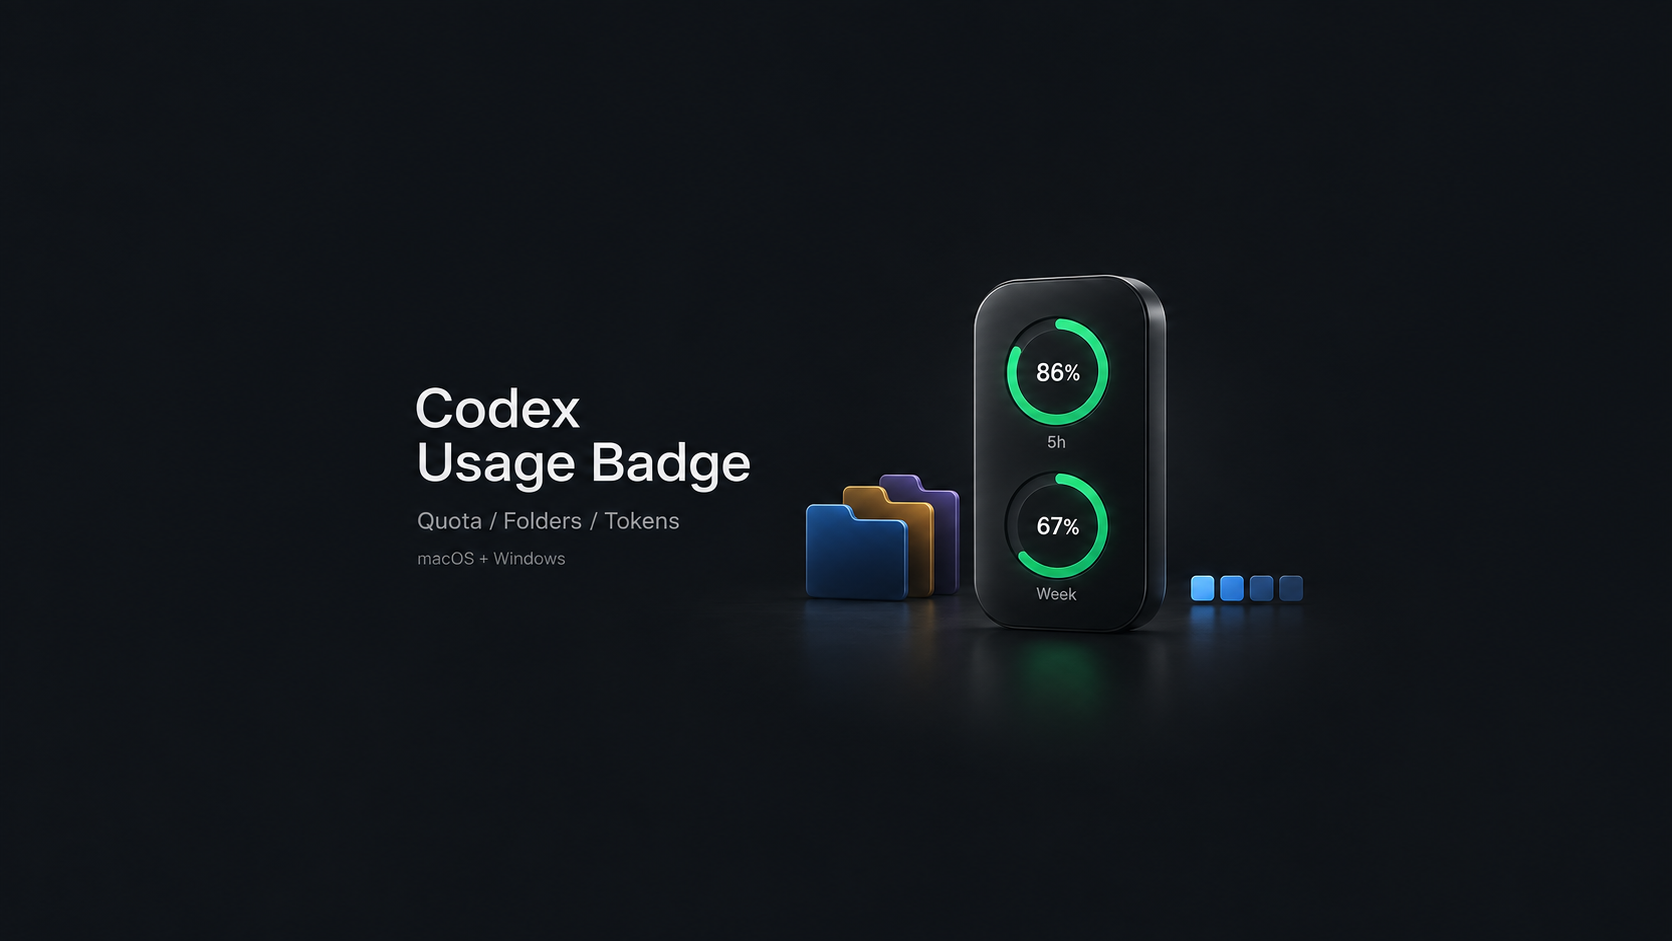
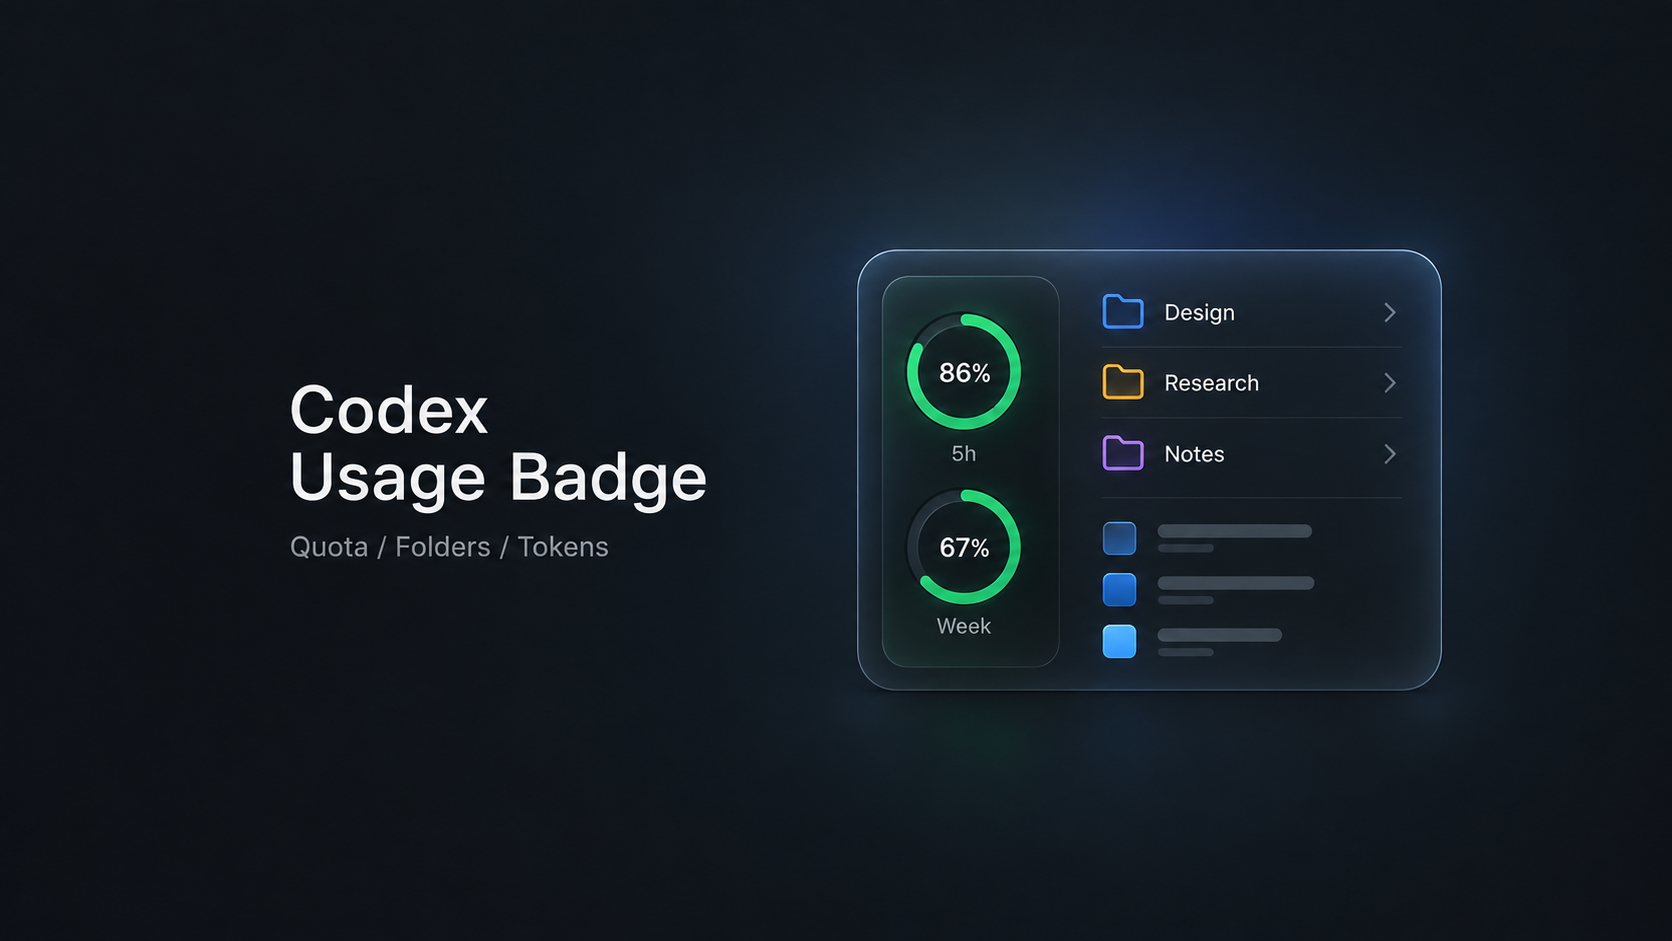
Refine README cover with native glass UI

Changed region(s): [[0.4665, 0.1233, 0.9019, 0.7396], [0.1555, 0.4006, 0.4665, 0.6164]]

diff --git a/scripts/audit_release.py b/scripts/audit_release.py
@@ -19,13 +19,13 @@ patterns = [
 forbidden_parts = {'node_modules','vendor','backups','.devtools','__MACOSX'}
 forbidden_suffixes = {'.png','.jpg','.jpeg','.webp','.sqlite','.db','.log'}
 forbidden_names = {'auth.json','config.json','worker.json','.DS_Store','stop.request'}
-# Only this visually reviewed, generated cover is allowed; screenshots stay blocked.
[1 lines of base64/hex data omitted]
+# Pin reviewed generated covers; retain the previous cover for immutable release archives. Screenshots stay blocked.
[1 lines of base64/hex data omitted]
 
 def inspect(name, data):
     p = Path(name)
     approved = approved_media.get(p.as_posix())
-    if approved and hashlib.sha256(data).hexdigest() != approved:
+    if approved and hashlib.sha256(data).hexdigest() not in approved:
         raise SystemExit('Media changed; visual/privacy review required: '+name)
     if forbidden_parts.intersection(p.parts) or (p.suffix.lower() in forbidden_suffixes and not approved) or p.name in forbidden_names or p.name.startswith('.env'):
         raise SystemExit('Forbidden artifact: '+name)

diff --git a/docs/cover-design.md b/docs/cover-design.md
@@ -1,9 +1,21 @@
 # README cover
 
-Generated with the built-in imagegen tool. This is a conceptual product illustration using synthetic sample values, not a screenshot of an account or a desktop session. The original generated image and its provenance metadata are preserved. It is used as a spacious 16:9-format README cover.
+Created with the built-in imagegen tool and reviewed before publication. A conceptual native desktop UI using synthetic values and project names; no real account or desktop content. The reference moodboard was used only for visual direction and is not distributed.
 
-Native output: 1672 × 941 pixels (16:9 with raster rounding), PNG. The generator returned this resolution rather than the resolution requested in the prompt.
+The cover uses shallow graphite glass, thin highlights and compact native controls. Quota rings, colored folder outlines and Token indicators share one sidebar surface. The original generated PNG and provenance metadata are preserved without post-processing.
 
-## Final generation prompt
+Output: 1672 × 941 pixels, approximately 16:9 with raster rounding. The tool returned this size rather than the requested 2048 × 1152.
 
-Use case: ads-marketing. Create one finished premium GitHub README cover for the open-source project Codex Usage Badge. Output a landscape image at exactly 2048 x 1152 pixels, strict 16:9 aspect ratio. Art direction: restrained industrial product design meets Swiss editorial typography, refined dark software aesthetic. This is a complete designed cover, not a screenshot or a webpage mockup. Background: nearly uniform deep graphite black #101419, barely perceptible soft illumination behind the object, very clean, no noisy texture. At least 65 percent of the canvas must be calm empty negative space; wide safe margins, especially the top and bottom. Main layout is a compact horizontal composition in the middle third of the canvas. On the left, precise small-to-medium off-white sans-serif typography with generous spacing: exact main title on two lines 'Codex' and 'Usage Badge'. Directly beneath it a quiet small gray line exactly 'Quota / Folders / Tokens'. A further very small gray line 'macOS + Windows'. Do not make type oversized. On the right of center, a compact premium three-dimensional dark graphite UI sculpture, occupying only about 23 percent of canvas width and 40 percent of canvas height: a slender upright rounded capsule with two finely rendered emerald green progress rings arranged vertically; tiny accurate white numerical readouts 86% and 67%, with subdued labels '5h' and 'Week'. Geometry immaculate, rings perfectly centered, consistent inset from capsule edges, dark anodized finish, delicate bevels, soft believable studio light and restrained green reflections. Two tiny secondary objects sit near the capsule as a harmonious unified group: a few subtly layered simple folder shapes with blue, soft amber and muted violet accents; a miniature row of four small rounded blue squares of graduated brightness suggesting Token usage. These two secondary elements are understated, significantly smaller than the rings, with no extra text. Keep all elements comfortably within the central region, no edge cropping. Sophisticated, quiet, polished, spacious, balanced; no decorative gradients across the entire background, no neon halo, no cyberpunk, no ribbons, no busy dashboard, no multiple large panels, no giant 3D text, no laptops, no literal app screenshot. No OpenAI logo or other logo, no watermark, no personal information. The title and three exact support lines specified above are the only marketing text.
+## Final prompt
+
+Use case: ui-mockup / premium GitHub README cover.
+Primary request: Redesign the existing Codex Usage Badge cover to feel like beautifully crafted native desktop UI, guided by the reference moodboard's translucent controls, soft glass, thin highlights, and disciplined iconography. Deliver ONE complete landscape cover, exactly 2048 x 1152 pixels, 16:9.
+Input image 1 is the OLD cover: preserve the product name and the three product ideas, but replace its physical hardware sculpture, thick metallic bevels and freestanding 3D folders with a convincing native software interface.
+Input image 2 is a STYLE MOODBOARD only. Borrow restrained material and UI craft, never copy the collage, its text, logos, brands, watermarks, browser or Pinterest controls.
+
+Composition: generous quiet negative space, about 60% of the canvas, wide outer margins. A compact, optically balanced horizontal composition centered vertically. On the left, restrained off-white SF-style sans-serif typography: the exact title on two lines "Codex" and "Usage Badge"; underneath, much smaller cool gray text "Quota / Folders / Tokens". Clean editorial spacing. No other marketing copy.
+On the right, one coherent front-facing dark translucent native sidebar component, about 30% of the canvas width and 34% of canvas height. This is a SOFTWARE surface viewed straight on, extremely shallow depth, rounded continuous corners, thin high-quality edge highlights, subtle backdrop blur, soft shadow; no perspective distortion or physical slab. Integrate a narrow vertical quota capsule at its left, with two beautifully centered small green progress rings stacked vertically, showing synthetic values "86%" and "67%" with tiny labels "5h" and "Week". Slim smooth strokes, crisp flat type, no thick inner cavities, no chrome rim. To the right within the same sidebar surface, three properly aligned project rows with small flat outlined folder icons in blue, amber and soft violet, and simple text "Design", "Research", "Notes". Beneath them, three small conversation rows identified by small rounded blue squares of increasing blue brightness and short muted gray text strokes. This conveys Token indicators without numerical clutter. Use authentic compact native spacing, consistent stroke weights and a comfortable hierarchy. The component should feel directly usable, refined and plausible, not like a render of a plastic gadget.
+
+Backdrop: smooth near-black charcoal, slightly lighter than pure black, a very subtle soft bluish-gray ambient illumination only behind the UI. No horizon, floor, pedestal, shiny reflection, texture, noise, abstract decoration or large color blobs.
+Materials: dark graphite glass with restrained frosted translucency, a very faint green tint around the quota rings and very faint blue edge light, understated tactile depth as in the best reference controls. Precise pixels and immaculate typography. The image should look like a polished native product launch cover, calm and professional with lots of breathing room.
+Constraints: keep every object well inside the frame. No real account data, avatars, screenshots, OpenAI logo, Apple logo, watermarks, fake sponsor logos, excess words, neon bloom, cyberpunk, oversized glass bubbles, toy-like icons, exploded elements, 3D lettering, or repeated panels. Maintain accurate spelling and clean alignment.

diff --git a/README.md b/README.md
@@ -2,7 +2,7 @@
 
 为 Codex 桌面端增加额度显示、项目配色和会话 Token 统计。
 
-![Codex Usage Badge](assets/cover.png)
+![Codex Usage Badge：原生风格额度圆环、项目配色与 Token 色块](assets/cover.png)
 
 ## 功能
 
